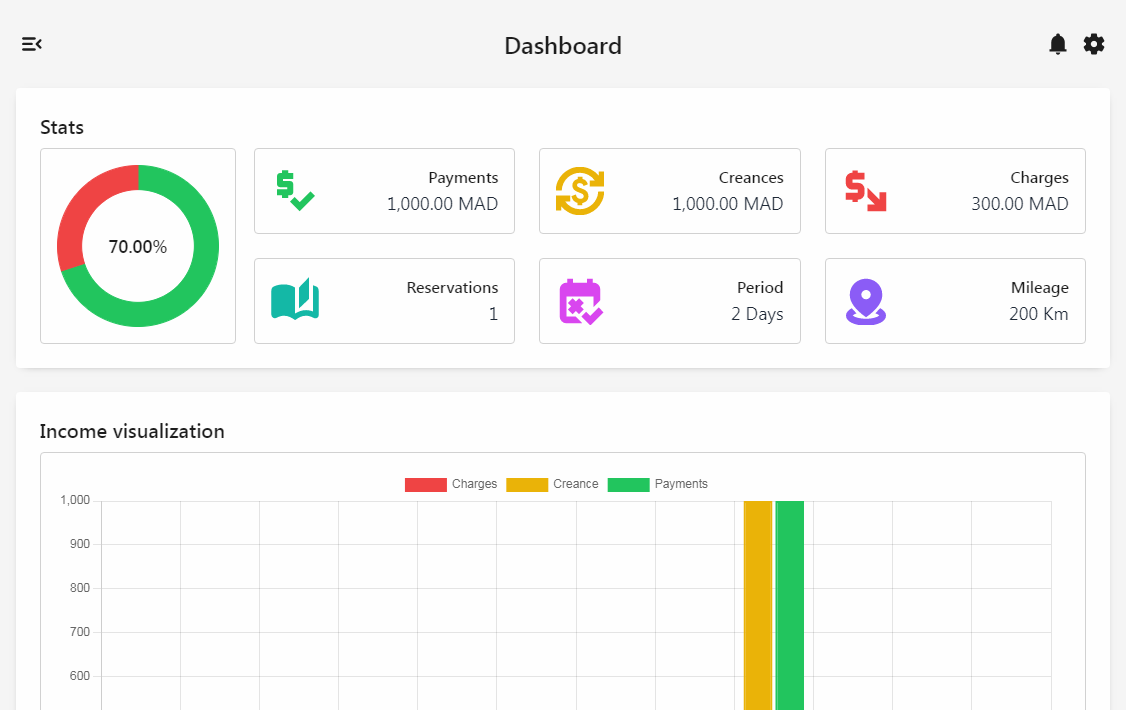
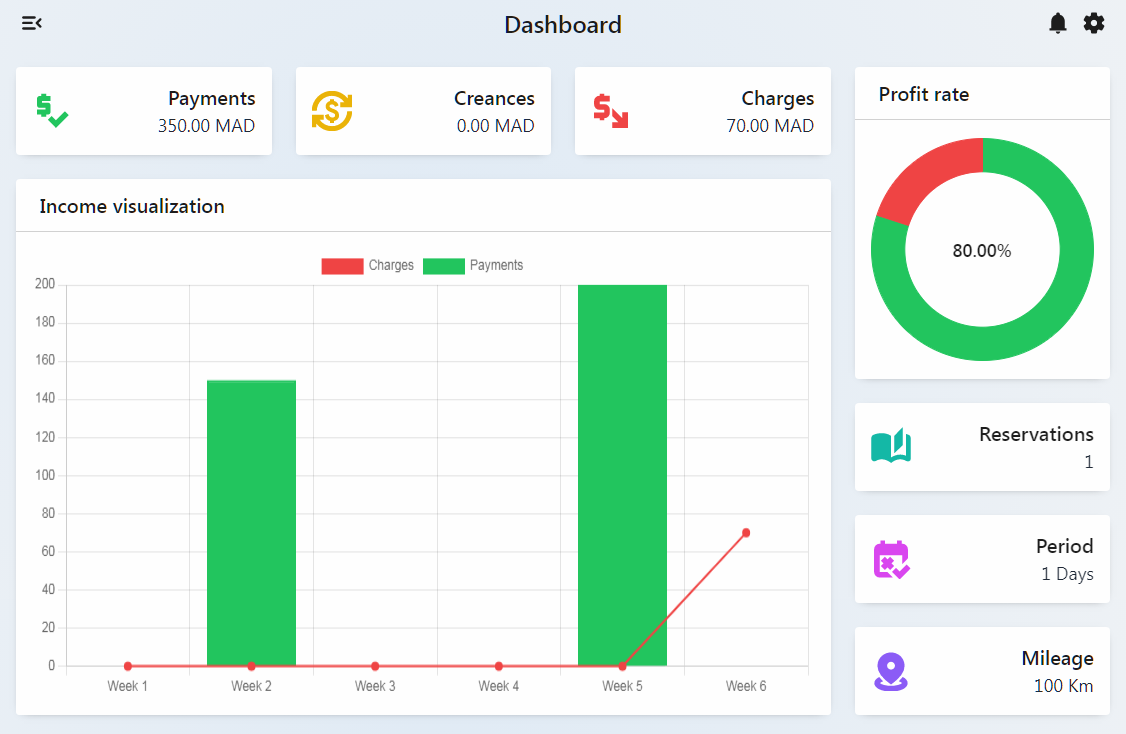
update {0>0}

diff --git a/client/app/Functions/Core.php b/client/app/Functions/Core.php
@@ -87,7 +87,7 @@ class Core
                 $endHour = $startHour + 2;
                 return sprintf('%02d:00 - %02d:00', $startHour, $endHour);
             case 'week':
-                return __($object->format('l'));
+                return __($object->startOfWeek(Carbon::MONDAY)->format('l'));
             case 'month':
                 return __('Week') . ' ' . Core::formatWeek($object->format('Y-m-d'));
             case 'year':
@@ -98,16 +98,11 @@ class Core
     public static function formatWeek($datestr)
     {
         $date = Carbon::parse($datestr);
-        $date->startOfWeek(Carbon::MONDAY);
-        $date->endOfWeek(Carbon::SUNDAY);
-        $dayOfWeek = $date->format('N');
-        $dayOfMonth = $date->format('j');
-        $startDayOfWeek = Carbon::parse($date->format('Y-m-01'));
-        $startDayOfWeek->startOfWeek(Carbon::MONDAY);
-        $startDayOfWeek->endOfWeek(Carbon::SUNDAY);
-        $startDayOfWeek = $startDayOfWeek->format('N');
-        return (int) ceil(($dayOfMonth + $startDayOfWeek - $dayOfWeek) / 7);
+        $firstMonday = Carbon::parse($date->format('Y-m-01'))->startOfWeek(Carbon::MONDAY);
+        $daysDifference = $date->diffInDays($firstMonday);
+        return (int) ceil(($daysDifference + 1) / 7);
     }
+
 
     public static function formatNumber($num)
     {

diff --git a/client/resources/views/core/index.blade.php b/client/resources/views/core/index.blade.php
@@ -9,7 +9,7 @@
         'search' => route('actions.core.popular'),
         'chart' => route('actions.core.chart'),
     ]) !!}' />
-    <meta name="count" content="{!! json_encode([(float) $vals->paid - $vals->charges, (float) $vals->charges]) !!}" />
+    <meta name="count" content="{!! json_encode([(float) $vals->paid > 0 ? $vals->paid - $vals->charges : 0, (float) $vals->charges]) !!}" />
     <meta name="rtl" content="{{ Core::lang('ar') }}" />
 @endsection
 

diff --git a/client/resources/views/vehicle/scene.blade.php b/client/resources/views/vehicle/scene.blade.php
@@ -24,7 +24,7 @@
         'csrf' => csrf_token(),
         'chart' => route('actions.vehicles.chart', $data->id),
     ]) !!}' />
-    <meta name="count" content="{!! json_encode([(float) $vals->paid - $vals->charges, (float) $vals->charges]) !!}" />
+    <meta name="count" content="{!! json_encode([(float) $vals->paid > 0 ? $vals->paid - $vals->charges : 0, (float) $vals->charges]) !!}" />
     <meta name="rtl" content="{{ Core::lang('ar') }}" />
 @endsection
 
